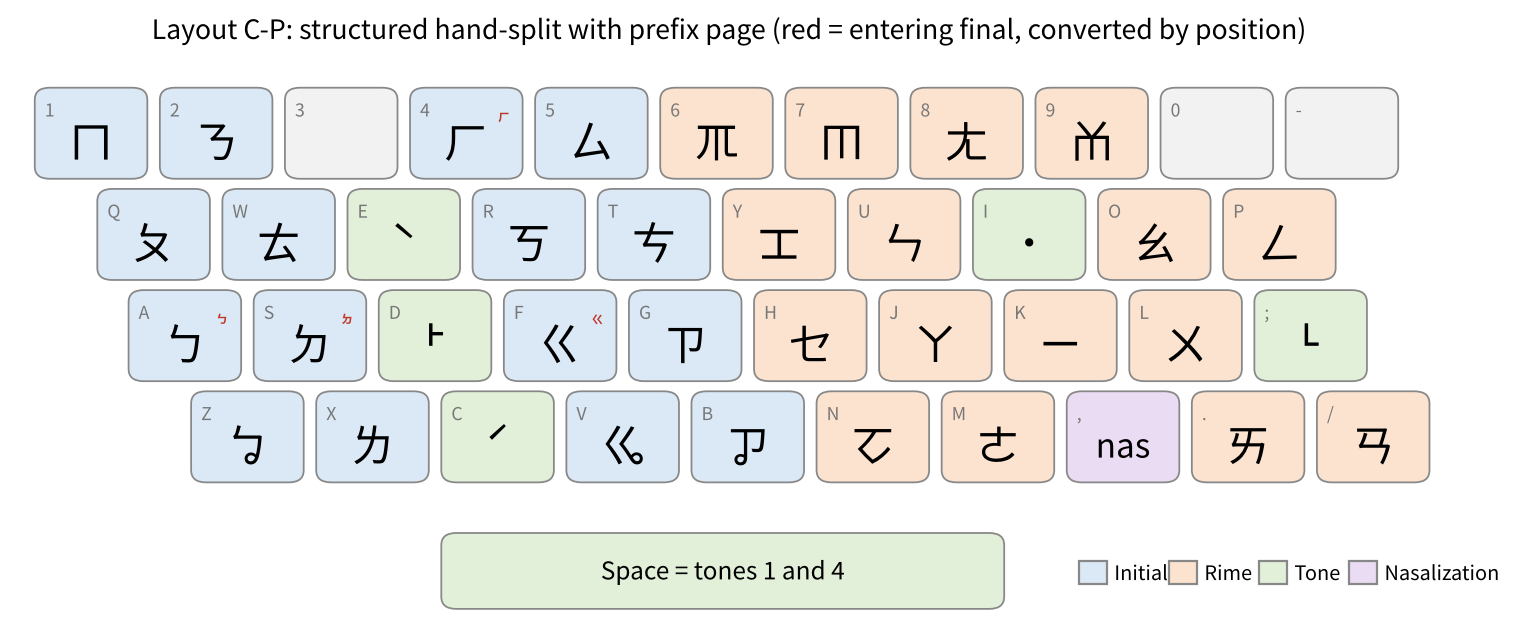
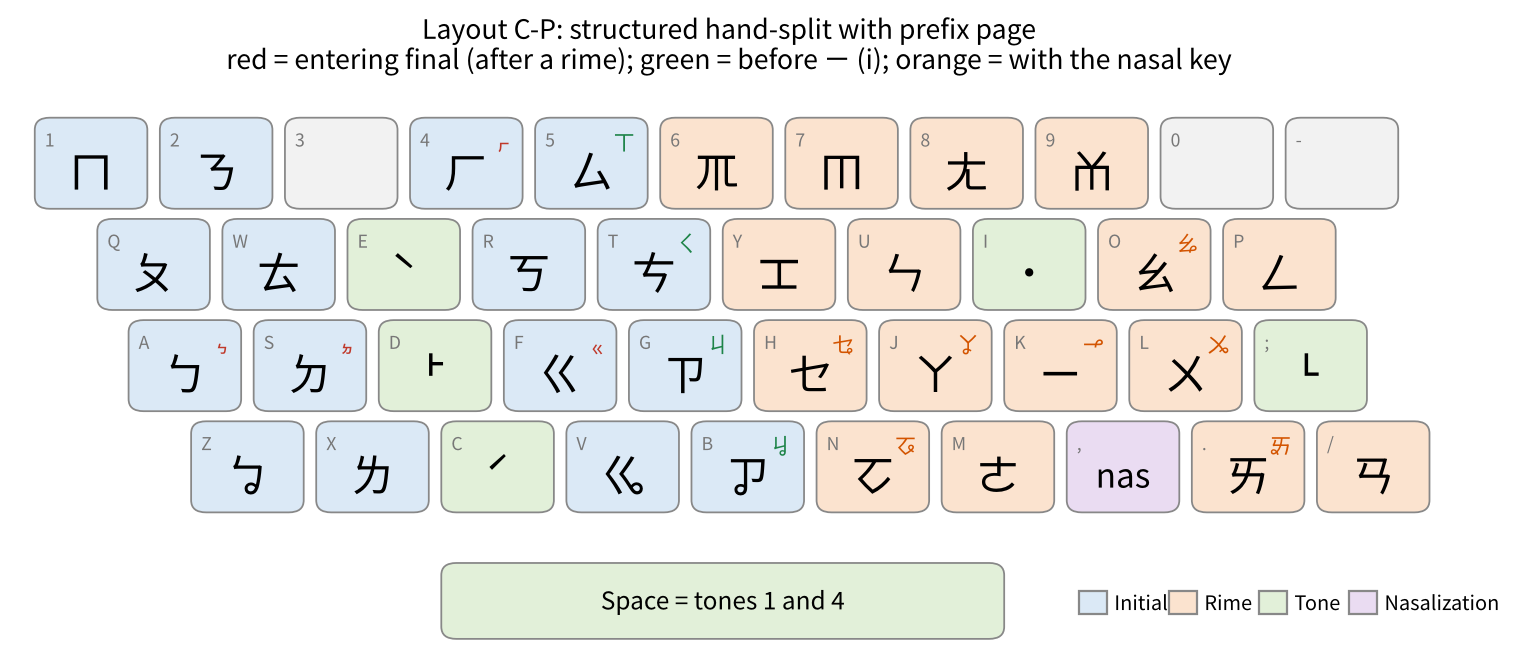
Figures: show allophones (green) and nasal letters (orange) on their keys
Claude-Session: https://claude.ai/code/session_01NAaUPmCiocEBpHhsM43Wwq

diff --git a/figures_proposed.py b/figures_proposed.py
@@ -8,14 +8,16 @@ from config import OUT
 INITIALS=list('ㄅㄆㄇㆠㄉㄊㄋㄌㄍㄎㄫㆣㄏㄗㄘㄙㆡ')
 best=json.load(open(OUT/'layouts_proposed.json',encoding='utf-8'))
 AUTO={'ㄅ':'ㆴ','ㄉ':'ㆵ','ㄍ':'ㆻ','ㄏ':'ㆷ'}        # entering finals, converted by position (red)
+ALLO={'ㄗ':'ㄐ','ㄘ':'ㄑ','ㄙ':'ㄒ','ㆡ':'ㆢ'}        # allophones shown before ㄧ (green)
+NASV={'ㄚ':'ㆩ','ㄧ':'ㆪ','ㄨ':'ㆫ','ㆤ':'ㆥ','ㆦ':'ㆧ','ㄞ':'ㆮ','ㄠ':'ㆯ'}   # vowel + nasal key (orange)
 SHIFT={'ㆰ':'ㆱ','ˋ':'ˇ','ˊ':'ˆ'}                    # secondary layer, typed with Shift (blue)
 LANG=sys.argv[1] if len(sys.argv)>1 else 'en'
 T={'en':dict(nas='nas',space='Space = tones 1 and 4',leg=['Initial','Rime','Tone','Nasalization'],
-             note=' (red = entering final, converted by position; blue = Shift)',
+             note='\nred = entering final (after a rime); green = before ㄧ (i); orange = with the nasal key; blue = Shift',
              titles={'A':'Layout A: Dachien-preserving','B':'Layout B: hand-split (all initials on the left half)',
                      'C':'Layout C: structured hand-split (columns = place, rows = manner)','free':'Unconstrained reference'}),
    'zh':dict(nas='鼻',space='空白鍵＝第 1、4 聲',leg=['聲母','韻母','聲調','鼻化'],
-             note='（紅字＝入聲韻尾，依位置自動轉換；藍字＝Shift）',
+             note='\n紅字＝入聲韻尾（接在韻母後）；綠字＝後接 ㄧ（i）時的同位音；橘字＝母音＋鼻化鍵；藍字＝Shift',
              titles={'A':'方案甲：保留大千式','B':'方案乙：左右分工（聲母全在左半）',
                      'C':'方案丙：結構化左右分工（行＝發音部位，列＝發音方法）','free':'無限制參考排列'})}[LANG]
 TONES='ˋ˪ˊ˫˙ˇˆ'
@@ -37,7 +39,8 @@ def draw(m,fn,title):
             ax.add_patch(FancyBboxPatch((x+0.05,y+0.05),0.9,0.9,boxstyle='round,pad=0.0,rounding_size=0.12',fc=COL[cat(u)],ec='#888',lw=0.8))
             ax.text(x+0.13,y+0.82,c.upper(),fontsize=8,color='#777',va='top')
             if u: ax.text(x+0.5,y+0.42,T['nas'] if u=='N' else u,fontsize=20 if u!='N' else 15,ha='center',va='center')
-            if u in AUTO: ax.text(x+0.85,y+0.82,AUTO[u],fontsize=10,color='#c0392b',ha='right',va='top')
+            for mp,col in ((AUTO,'#c0392b'),(ALLO,'#1e8449'),(NASV,'#d35400')):
+                if u in mp: ax.text(x+0.85,y+0.82,mp[u],fontsize=10,color=col,ha='right',va='top')
             if u in SHIFT and SHIFT[u] not in best[m]: ax.text(x+0.85,y+0.82,SHIFT[u],fontsize=10,color='#1f5fbf',ha='right',va='top')
     ax.add_patch(FancyBboxPatch((3.3,-0.2),4.5,0.75,boxstyle='round,pad=0.0,rounding_size=0.12',fc=COL['tone'],ec='#888',lw=0.8))
     ax.text(5.55,0.17,T['space'],fontsize=11,ha='center',va='center')

diff --git a/figures_prefix.py b/figures_prefix.py
@@ -10,17 +10,19 @@ from model import ROWS
 from config import OUT
 INITIALS = list('ㄅㄆㄇㆠㄉㄊㄋㄌㄍㄎㄫㆣㄏㄗㄘㄙㆡ')
 AUTO = {'ㄅ': 'ㆴ', 'ㄉ': 'ㆵ', 'ㄍ': 'ㆻ', 'ㄏ': 'ㆷ'}
+ALLO = {'ㄗ': 'ㄐ', 'ㄘ': 'ㄑ', 'ㄙ': 'ㄒ', 'ㆡ': 'ㆢ'}
+NASV = {'ㄚ': 'ㆩ', 'ㄧ': 'ㆪ', 'ㄨ': 'ㆫ', 'ㆤ': 'ㆥ', 'ㆦ': 'ㆧ', 'ㄞ': 'ㆮ', 'ㄠ': 'ㆯ'}
 TONES = 'ˋ˪ˊ˫˙ˇˆ'
 COL = {'ini': '#dbe9f6', 'rime': '#fbe3cf', 'tone': '#e2f0d9', 'nas': '#eadcf2', 'none': '#f2f2f2'}
 LANG = sys.argv[1] if len(sys.argv) > 1 else 'en'
 T = {'en': dict(nas='nas', space='Space = tones 1 and 4',
                 leg=['Initial', 'Rime', 'Tone', 'Nasalization'],
-                note=' (red = entering final, converted by position)',
+                note='\nred = entering final (after a rime); green = before ㄧ (i); orange = with the nasal key',
                 titles={'A-P': 'Layout A-P: Dachien-preserving with prefix page',
                         'B-P': 'Layout B-P: hand-split with prefix page',
                         'C-P': 'Layout C-P: structured hand-split with prefix page'}),
      'zh': dict(nas='鼻', space='空白鍵＝第 1、4 聲', leg=['聲母', '韻母', '聲調', '鼻化'],
-                note='（紅字＝入聲韻尾，依位置自動轉換）',
+                note='\n紅字＝入聲韻尾（接在韻母後）；綠字＝後接 ㄧ（i）時的同位音；橘字＝母音＋鼻化鍵',
                 titles={'A-P': '方案甲-P：大千保留型＋前置頁',
                         'B-P': '方案乙-P：左右分區型＋前置頁',
                         'C-P': '方案丙-P：結構化分區型＋前置頁'})}[LANG]
@@ -44,7 +46,8 @@ def draw(lay, fn, title):
                                         fc=COL[cat(u)], ec='#888', lw=0.8))
             ax.text(x + 0.13, y + 0.82, c.upper(), fontsize=8, color='#777', va='top')
             if u: ax.text(x + 0.5, y + 0.42, T['nas'] if u == 'N' else u, fontsize=20 if u != 'N' else 15, ha='center', va='center')
-            if u in AUTO: ax.text(x + 0.85, y + 0.82, AUTO[u], fontsize=10, color='#c0392b', ha='right', va='top')
+            for mp, col in ((AUTO, '#c0392b'), (ALLO, '#1e8449'), (NASV, '#d35400')):
+                if u in mp: ax.text(x + 0.85, y + 0.82, mp[u], fontsize=10, color=col, ha='right', va='top')
             if c in pre: ax.text(x + 0.87, y + 0.12, pre[c], fontsize=10, color='#7d3c98', ha='right', va='bottom')
     ax.add_patch(FancyBboxPatch((3.3, -0.2), 4.5, 0.75, boxstyle='round,pad=0.0,rounding_size=0.12', fc=COL['tone'], ec='#888', lw=0.8))
     ax.text(5.55, 0.17, T['space'], fontsize=11, ha='center', va='center')
